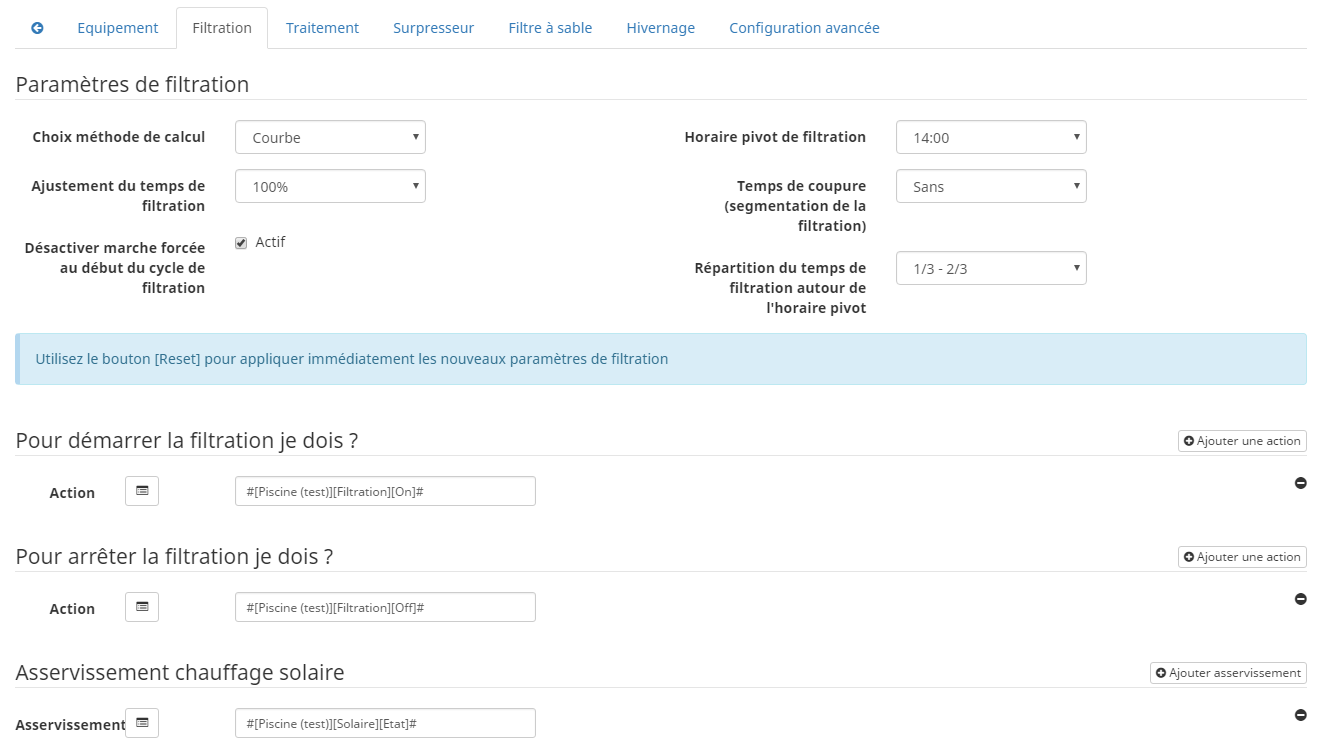
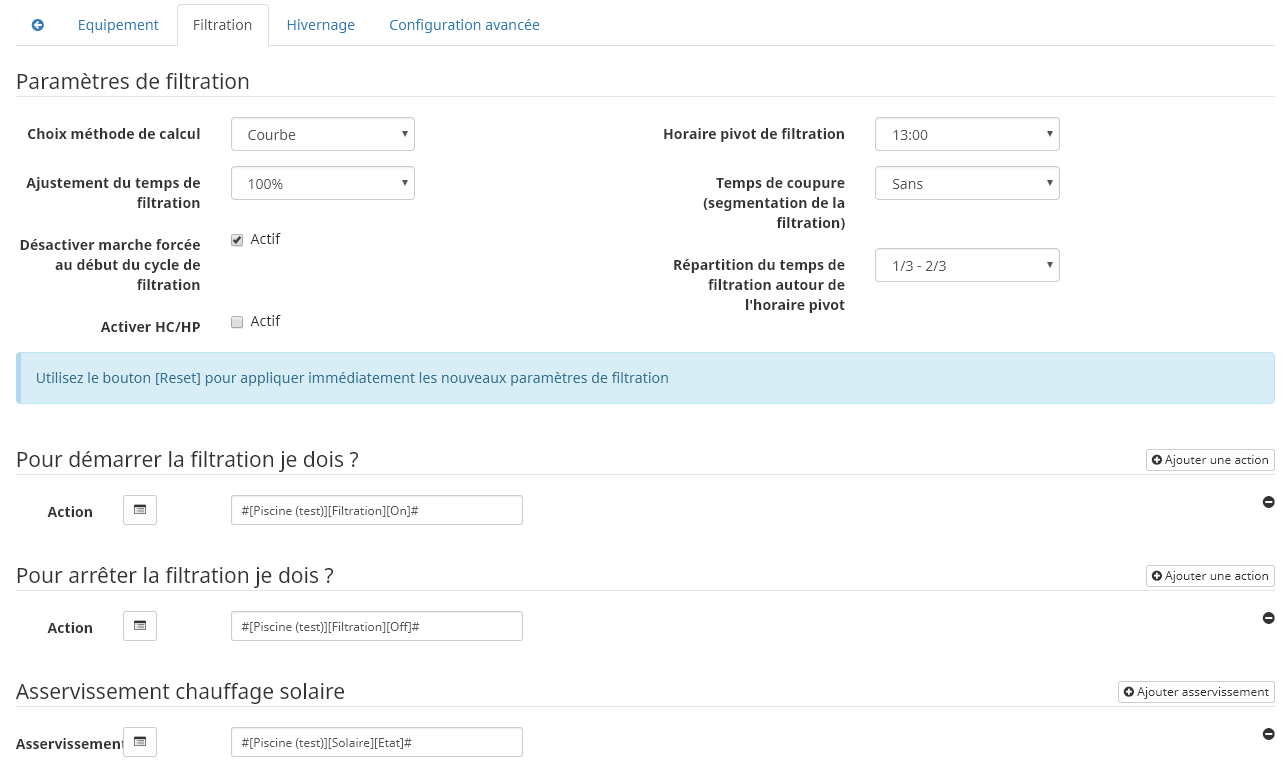
mise à jour de la doc

diff --git a/docs/fr_FR/index.md b/docs/fr_FR/index.md
@@ -107,7 +107,7 @@ Onglet [Filtration]
 
 ![Onglet Filtration](../images/config_filtration.png)
 
-_C'est l'onglet principal de l'installation, il est toujours visible quelque soit la configration choisie._
+_C'est l'onglet principal de l'installation, il est toujours visible quel que soit la configuration choisie._
 
 Dans cet onglet, vous devez définir les paramétres du calcul de temps de la filtration.
 
@@ -117,11 +117,35 @@ Dans cet onglet, vous devez définir les paramétres du calcul de temps de la fi
 
 `Désactiver marche forcée au début du cycle de filtration` pour revenir au mode auto au début du cycle de filtration, afin d'éviter de laisser indéfiniment la marche forcée. Cette option n'est présente que si l'asservissement externe est désactivé.
 
+`Activer HC/HP` permet de basculer les horaires de filtration entre un mode pivot et les heures creuses.
+
+**Si les heures creuses sont désactivées les options suivantes sont disponibles :**
+
 `Horaire pivot de filtration` : vous permet de définir l'heure de la filtration.
 
 `Temps de coupure (segmentation de la filtration)` : vous permet de faire une pause pendant la filtration, cette pause est située à l'heure pivot choisie. Les heures de début et de fin de filtration sont décalées proportionnellement. Utilisez le bouton test pour visualiser et déterminer les horaires souhaités.
 
 `Répartition du temps de filtration autour de l'horaire pivot` : vous permet de choisir la répartition de la plage de filtration autour de l'heure pivot, au choix 1/2 <> 1/2 ou 1/3 <> 2/3.
+
+![Onglet Filtration HCHP](../images/config_filtration_hchp.png)
+
+**Si les heures creuses sont activées les options suivantes sont disponibles :**
+
+`Début des heures creuses en journée` : Permet de définir l'heure de début de la plage des heures creuses en journée.
+
+`Fin des heures creuses en journée` : Permet de définir l'heure de fin de la plage des heures creuses en journée.
+
+`Début des heures creuses nuit` : Permet de définir l'heure de début de la plage des heures creuses de nuit.
+
+_Il n'y a pas de réglage de fin des heures creuses de nuit. Le plugin considère que le total des heures creuses n'excède pas 8 heures par jour._
+
+`Priorité plage heures creuses` : Permet de choisir sur quelle plage le temps de filtration sera réparti. Vous pouvez choisir Journée/Nuit/Egal, le plugin utilisera la plage désirée suivant votre choix de priorité.
+
+Par exemple, si vous avez choisi Journée avec une plage heures creuses de journée de 13:00 à 18:00 et de nuit à partir de 01:00
+
+- pour une durée de filtration de 4 heures 30, les horaires de filtration seront de 13:00 à 17:30.
+- pour une durée de filtration de 7 heures, les horaires de filtration seront de 13:00 à 18:00 puis de 01:00 à 03:00.
+- pour une durée de filtration supérieure à 8 heures les horaires dépasseront des plages HC/HP en restant centrée sur ces plages. Quand le temps de filtration deviendra plus important il n'y aura qu'une plage de filtration.
 
 Voici le détail de la courbe de filtration, la courbe bleue représente la valeur 100%, la courbe verte 140% et la courbe rouge 60%.
 
